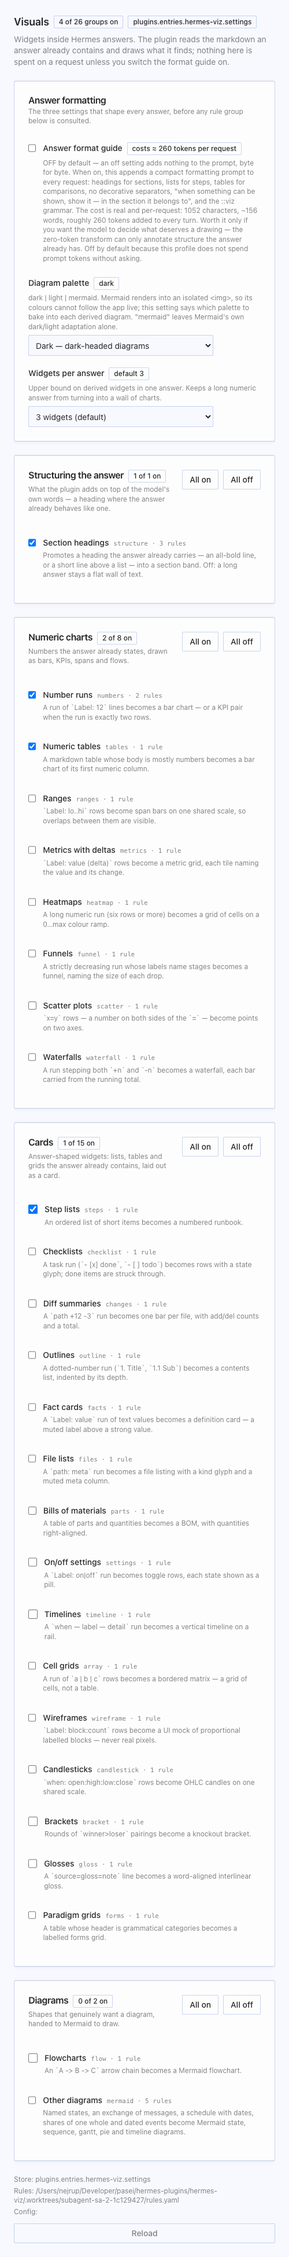
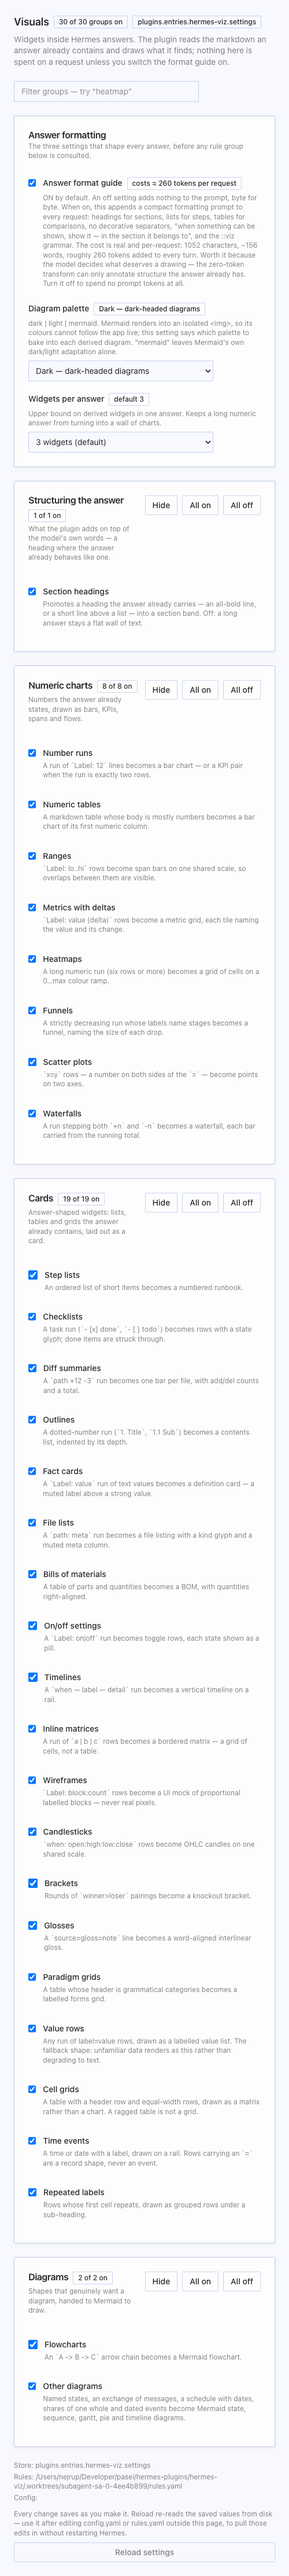
settings page round 9: version guard, filter + collapse, legible previews, plain labels
- selfcheck.py now fails when plugin.yaml and dashboard/manifest.json versions
  disagree or are empty (the app keys the bundle on that version), and fails on
  duplicate group titles; asserts the entry file exists.
- the page gains a filter box and per-section collapse/expand so 30 switches are
  scannable; a filter hit is never hidden behind a collapsed header.
- previews move off the muted grey onto a solid card with a caption, so a
  thumbnail is legible or it is dropped.
- drop the 'N rules' jargon chip; 'Reload' becomes 'Reload settings' with a line
  saying what it re-reads and when; palette badge names the choice in words and
  a one-item dropdown degrades to a sentence.
- bump plugin.yaml + manifest.json to 0.1.1; refresh screenshots and add the
  collapsed + filter ones.

diff --git a/dashboard/dist/index.js b/dashboard/dist/index.js
@@ -100,28 +100,39 @@
   function ToggleRow(props) {
     var group = props.group;
     var busy = props.busy;
+    // A thumbnail nobody can read is worse than none: a solid card surface (not the muted grey the
+    // page sits on), a wider frame and an explicit caption, so the drawing reads at a glance.
     var sample = group.sample
       // Trusted: this markup is rendered at build time from the plugin's own pure core
       // (desktop/render/core.mjs) by dashboard/make_samples.mjs and shipped as data — no request or
       // user input reaches it, and selfcheck.py fails if it drifts from the core.
-      ? h("div", {
-          className:
-            "hv-sample hidden md:block shrink-0 w-80 self-start overflow-hidden rounded-md bg-muted/40 p-3",
-          "aria-hidden": "true",
-          dangerouslySetInnerHTML: { __html: group.sample }
-        })
-      : h(
-          "div",
+      ? h(
+          "figure",
           {
             className:
-              "hidden md:flex shrink-0 w-80 self-start items-center justify-center rounded-md bg-muted/40 p-3 text-xs text-muted-foreground"
+              "hv-sample hidden md:flex shrink-0 w-80 self-start flex-col overflow-hidden rounded-lg border border-border bg-card p-4",
+            "aria-hidden": "true"
           },
-          "Drawn by Mermaid"
+          h("div", { dangerouslySetInnerHTML: { __html: group.sample } }),
+          h(
+            "figcaption",
+            { className: "mt-2 text-[11px] text-muted-foreground" },
+            "What this group draws"
+          )
+        )
+      : h(
+          "figure",
+          {
+            className:
+              "hidden md:flex shrink-0 w-80 self-start flex-col items-center justify-center gap-1 rounded-lg border border-dashed border-border bg-card p-4 text-xs text-muted-foreground"
+          },
+          h("span", null, "Drawn by Mermaid"),
+          h("span", { className: "text-[11px]" }, "the app's own diagram renderer")
         );
 
     return h(
       "div",
-      { className: "flex items-start gap-5 py-4" },
+      { className: "flex items-start gap-5 py-4", "data-group": group.id },
       h(
         "div",
         { className: "flex items-start gap-3 flex-1 min-w-0" },
@@ -136,14 +147,9 @@
           "div",
           { className: "grid gap-1 min-w-0" },
           h(
-            "div",
-            { className: "flex items-baseline gap-2 flex-wrap" },
-            h("span", { className: "text-sm font-medium" }, group.title),
-            h(
-              "span",
-              { className: "font-mono text-[11px] text-muted-foreground" },
-              group.id + " \u00b7 " + group.rules + (group.rules === 1 ? " rule" : " rules")
-            )
+            "span",
+            { className: "text-sm font-medium", title: "rules.yaml group: " + group.id },
+            group.title
           ),
           h(
             "p",
@@ -160,6 +166,9 @@
     var section = props.section;
     var on = section.groups.filter(function (g) { return g.active; }).length;
     var total = section.groups.length;
+    // While a filter is active every matching section is forced open, so a hit is never hidden
+    // behind a collapsed header the user forgot about.
+    var collapsed = props.collapsed && !props.query;
 
     return h(
       C.Card,
@@ -186,6 +195,16 @@
             {
               variant: "outline",
               size: "sm",
+              "aria-expanded": !collapsed,
+              onClick: function () { props.onToggleCollapse(section.id, collapsed); }
+            },
+            collapsed ? "Show " + total : "Hide"
+          ),
+          h(
+            C.Button,
+            {
+              variant: "outline",
+              size: "sm",
               disabled: props.busy || on === total,
               onClick: function () { props.onAll(section.groups, true); }
             },
@@ -203,18 +222,20 @@
           )
         )
       ),
-      h(
-        C.CardContent,
-        { className: "grid gap-0" },
-        section.groups.map(function (g) {
-          return h(ToggleRow, {
-            key: g.id,
-            group: g,
-            busy: props.busy,
-            onToggle: function (on) { props.onToggle(g, on); }
-          });
-        })
-      )
+      collapsed
+        ? null
+        : h(
+            C.CardContent,
+            { className: "grid gap-0" },
+            section.groups.map(function (g) {
+              return h(ToggleRow, {
+                key: g.id,
+                group: g,
+                busy: props.busy,
+                onToggle: function (on) { props.onToggle(g, on); }
+              });
+            })
+          )
     );
   }
 
@@ -234,6 +255,16 @@
     var _busy = useState("");
     var busy = _busy[0];
     var setBusy = _busy[1];
+
+    // The page has 30 switches; a filter box and per-section collapse are what make it scannable
+    // instead of a wall. Both are view state only — nothing here is written to the store.
+    var _filter = useState("");
+    var filter = _filter[0];
+    var setFilter = _filter[1];
+
+    var _collapsed = useState({});
+    var collapsed = _collapsed[0];
+    var setCollapsed = _collapsed[1];
 
     var load = useCallback(function () {
       return jsonFetch(API + "/settings")
@@ -297,6 +328,9 @@
     var widgetCeiling = state.max_widgets_ceiling || 10;
     var widgetOptions = [];
     for (var n = 0; n <= widgetCeiling; n++) { widgetOptions.push(n); }
+    // A one-item dropdown reads as broken. If the API ever ships fewer than two palettes, say so in
+    // words instead of rendering a control with nothing to choose.
+    var paletteOptions = (state.palettes || []).slice();
 
     // rules.yaml decides the order, so the rewritten value keeps the declared group sequence
     // regardless of click order.
@@ -329,6 +363,32 @@
       applyGroups(ids);
     }
 
+    function toggleCollapse(sectionId, isCollapsed) {
+      setCollapsed(function (prev) {
+        var next = {};
+        for (var key in prev) {
+          if (Object.prototype.hasOwnProperty.call(prev, key)) { next[key] = prev[key]; }
+        }
+        next[sectionId] = !isCollapsed;
+        return next;
+      });
+    }
+
+    // The filter narrows the groups by name; a section with no matching group disappears rather than
+    // leaving a heading standing over nothing.
+    var query = filter.trim().toLowerCase();
+    function groupMatches(g) {
+      if (!query) { return true; }
+      var hay = (g.title + " " + g.blurb + " " + g.id + " " + (g.kinds || []).join(" ")).toLowerCase();
+      return hay.indexOf(query) !== -1;
+    }
+    var shownSections = sections
+      .map(function (s) {
+        return { id: s.id, title: s.title, blurb: s.blurb, groups: s.groups.filter(groupMatches) };
+      })
+      .filter(function (s) { return s.groups.length > 0; });
+    var matched = shownSections.reduce(function (n, s) { return n + s.groups.length; }, 0);
+
     return h(
       "div",
       { className: "grid gap-6 max-w-[74rem]" },
@@ -357,6 +417,28 @@
 
       h(Message, { text: error, error: true }),
       h(Message, { text: notice }),
+
+      // ── filter: find one group without reading 30 rows ──────────────────────
+      h(
+        "div",
+        { className: "flex flex-wrap items-center gap-3" },
+        h("input", {
+          type: "search",
+          value: filter,
+          onChange: function (e) { setFilter(e.target.value); },
+          placeholder: "Filter groups \u2014 try \u201cheatmap\u201d",
+          "aria-label": "Filter rule groups",
+          className: "h-9 w-full rounded-md border border-border bg-background px-3 text-sm",
+          style: { maxWidth: "20rem" }
+        }),
+        query
+          ? h(
+              "span",
+              { className: "text-xs text-muted-foreground" },
+              matched + " of " + groups.length + " groups match \u201c" + filter.trim() + "\u201d"
+            )
+          : null
+      ),
 
       // ── answer formatting (the non-group settings) ──────────────────────────
       h(
@@ -402,21 +484,27 @@
             FieldShell,
             {
               title: paletteField.label || "Diagram palette",
-              badge: h(C.Badge, { variant: "secondary" }, current.palette || "dark"),
+              badge: h(C.Badge, { variant: "secondary" }, PALETTE_LABELS[current.palette] || current.palette || "dark"),
               blurb: paletteField.description
             },
-            h(
-              C.Select,
-              {
-                value: current.palette,
-                onValueChange: function (v) { write("palette", v); },
-                disabled: busy === "palette",
-                className: "w-80 max-w-full"
-              },
-              (state.palettes || []).map(function (p) {
-                return h(C.SelectOption, { key: p, value: p }, PALETTE_LABELS[p] || p);
-              })
-            )
+            paletteOptions.length > 1
+              ? h(
+                  C.Select,
+                  {
+                    value: current.palette,
+                    onValueChange: function (v) { write("palette", v); },
+                    disabled: busy === "palette",
+                    className: "w-80 max-w-full"
+                  },
+                  paletteOptions.map(function (p) {
+                    return h(C.SelectOption, { key: p, value: p }, PALETTE_LABELS[p] || p);
+                  })
+                )
+              : h(
+                  "p",
+                  { className: "text-sm text-muted-foreground max-w-[60ch]" },
+                  "The diagram palette follows the app's theme \u2014 there is no alternative to choose here."
+                )
           ),
 
           // widget cap — a bounded dropdown, never a free number
@@ -457,15 +545,48 @@
             h(C.CardHeader, null, h(C.CardTitle, { className: "text-base" }, "Rule groups")),
             h("p", { className: "text-sm text-muted-foreground" }, "No rule groups found in rules.yaml.")
           )
-        : sections.map(function (section) {
-            return h(SectionBlock, {
-              key: section.id,
-              section: section,
-              busy: !!busy,
-              onToggle: toggleGroup,
-              onAll: setSection
-            });
-          }),
+        : shownSections.length === 0
+          ? h(
+              C.Card,
+              null,
+              h(
+                C.CardHeader,
+                { className: "grid gap-1" },
+                h(C.CardTitle, { className: "text-base" }, "No groups match")
+              ),
+              h(
+                C.CardContent,
+                { className: "grid gap-3" },
+                h(
+                  "p",
+                  { className: "text-sm text-muted-foreground" },
+                  "No rule group matches \u201c" + filter.trim() + "\u201d. Clear the filter to see all " +
+                    groups.length + "."
+                ),
+                h(
+                  C.Button,
+                  {
+                    variant: "outline",
+                    size: "sm",
+                    className: "self-start",
+                    onClick: function () { setFilter(""); }
+                  },
+                  "Clear filter"
+                )
+              )
+            )
+          : shownSections.map(function (section) {
+              return h(SectionBlock, {
+                key: section.id,
+                section: section,
+                busy: !!busy,
+                query: query,
+                collapsed: !!collapsed[section.id],
+                onToggleCollapse: toggleCollapse,
+                onToggle: toggleGroup,
+                onAll: setSection
+              });
+            }),
 
       // ── provenance ────────────────────────────────────────────────────────
       h(
@@ -475,9 +596,15 @@
         h("span", null, "Rules: " + state.rules_path),
         h("span", null, "Config: " + state.config_path),
         h(
+          "p",
+          { className: "max-w-[70ch] mt-2 leading-snug" },
+          "Every change saves as you make it. Reload re-reads the saved values from disk \u2014 use it after " +
+            "editing config.yaml or rules.yaml outside this page, to pull those edits in without restarting Hermes."
+        ),
+        h(
           C.Button,
-          { variant: "outline", size: "sm", className: "self-start mt-2", onClick: load, disabled: !!busy },
-          "Reload"
+          { variant: "outline", size: "sm", className: "self-start mt-1", onClick: load, disabled: !!busy },
+          "Reload settings"
         )
       )
     );

diff --git a/dashboard/selfcheck.py b/dashboard/selfcheck.py
@@ -73,6 +73,22 @@ def main():
     check("entry file exists", entry.is_file(), str(entry))
     check("api file exists", api.is_file(), str(api))
 
+    # version guard ────────────────────────────────────────────────────────────
+    # The app keys a plugin's dashboard bundle on the version, so a manifest and
+    # plugin.yaml that disagree is how a settings page keeps serving the old page
+    # after the code changed. Both must carry one, non-empty, identical value.
+    plugin_yaml = PLUGIN_DIR / "plugin.yaml"
+    match = None
+    if plugin_yaml.is_file():
+        match = re.search(r'^version:\s*["\']?([^"\'\s#]+)', plugin_yaml.read_text(encoding="utf-8"), re.M)
+    plugin_version = match.group(1) if match else ""
+    manifest_version = str(manifest.get("version") or "").strip()
+    check("plugin.yaml declares a version", bool(plugin_version), repr(plugin_version))
+    check("manifest.json declares a version", bool(manifest_version), repr(manifest_version))
+    check("plugin.yaml and manifest.json versions agree",
+          bool(plugin_version) and plugin_version == manifest_version,
+          "plugin.yaml=%r manifest.json=%r" % (plugin_version, manifest_version))
+
     # backend ──────────────────────────────────────────────────────────────────
     api_src = api.read_text(encoding="utf-8") if api.is_file() else ""
     try:
@@ -133,6 +149,9 @@ def main():
             bad_category.append(gid)
     check("every group has a visible title", not unnamed, repr(unnamed))
     check("every group has a one-line explanation", not unexplained, repr(unexplained))
+    titles = [str((note_groups.get(gid) or {}).get("title") or "").strip() for gid in rules_groups]
+    dupes = sorted({t for t in titles if t and titles.count(t) > 1})
+    check("no two groups share a title", not dupes, repr(dupes))
     check("every group sits in a declared section", not unplaced, repr(unplaced))
     check("every group's section exists", not bad_category, repr(bad_category))
     check("no note describes a group rules.yaml does not have",
@@ -169,10 +188,12 @@ def main():
     check("bundle renders the named sections", "sections" in bundle)
     check("bundle exposes the format_guide toggle", "format_guide" in bundle)
     check("bundle shows a per-group sample", "sample" in bundle and "hv-sample" in bundle)
-    check("no bare text field is left on the page (toggles & dropdowns only)",
+    check("no setting is a bare text field (toggles & dropdowns only)",
           "C.Input" not in bundle, "C.Input is present" if "C.Input" in bundle else "")
     check("groups are toggles, not text", "onCheckedChange" in bundle)
     check("enums and bounded numbers are dropdowns", bundle.count("SelectOption") >= 2)
+    check("bundle has a group filter input", 'type: "search"' in bundle)
+    check("sections collapse and expand", "onToggleCollapse" in bundle)
 
     node = shutil.which("node")
     if node:

diff --git a/dashboard/preview/README.md b/dashboard/preview/README.md
@@ -17,6 +17,7 @@ Then open `.build/preview.html` in a browser at 1400px and at 500px.
 | `app.mjs` | the host stand-ins: SDK globals, minimal components carrying the page's roles and classes, a stub `fetchJSON` |
 | `fixture.py` | prints the real `GET /settings` payload by importing `plugin_api.py` with a small stub for fastapi/pydantic/the settings reader |
 | `settings-1400.png`, `settings-500.png` | the committed screenshots |
+| `settings-1400-collapsed.png`, `settings-1400-filter.png` | the same page with a section collapsed and with the filter in use |
 
 `.build/` is git-ignored. The components in `app.mjs` are stand-ins — the host's real ones live in an
 un-published design system — so treat the screenshots as evidence of *layout, hierarchy and overflow*,
